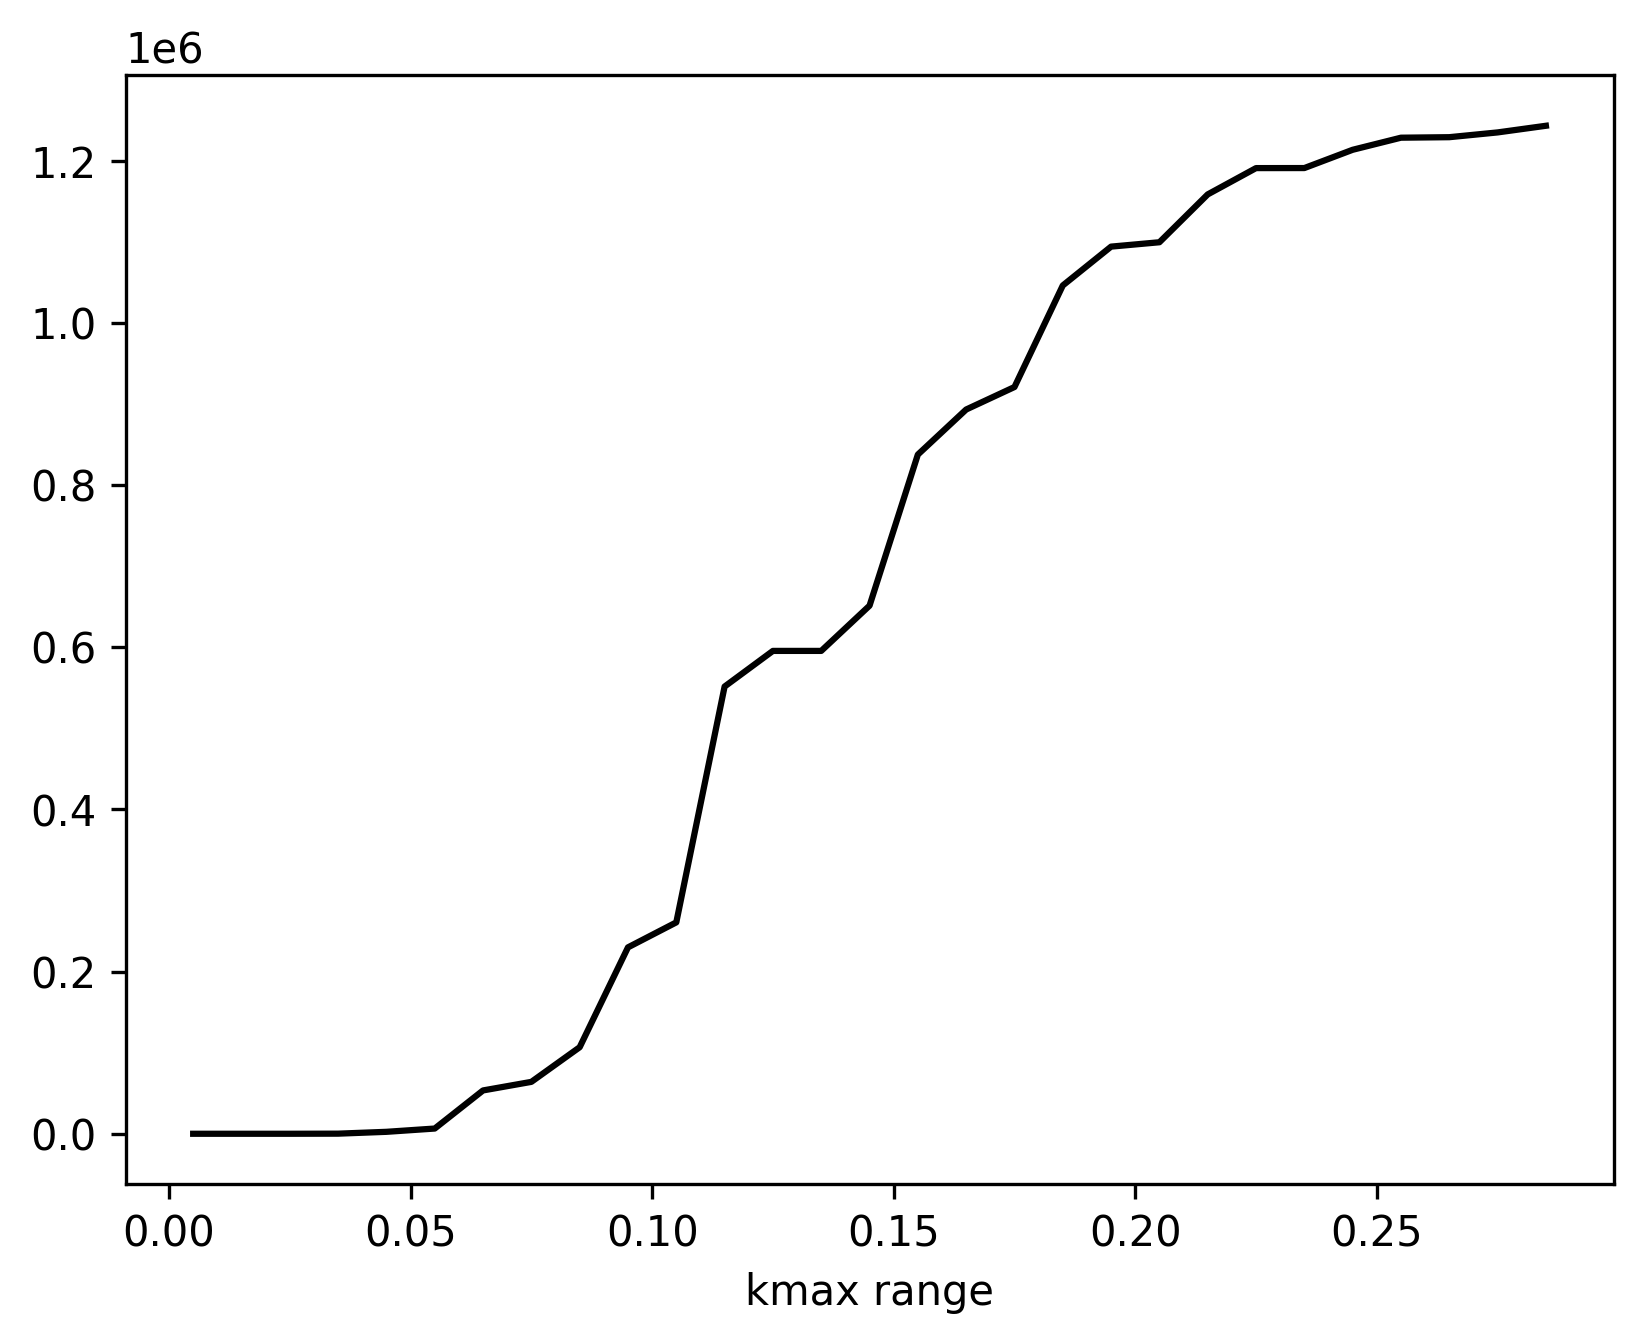
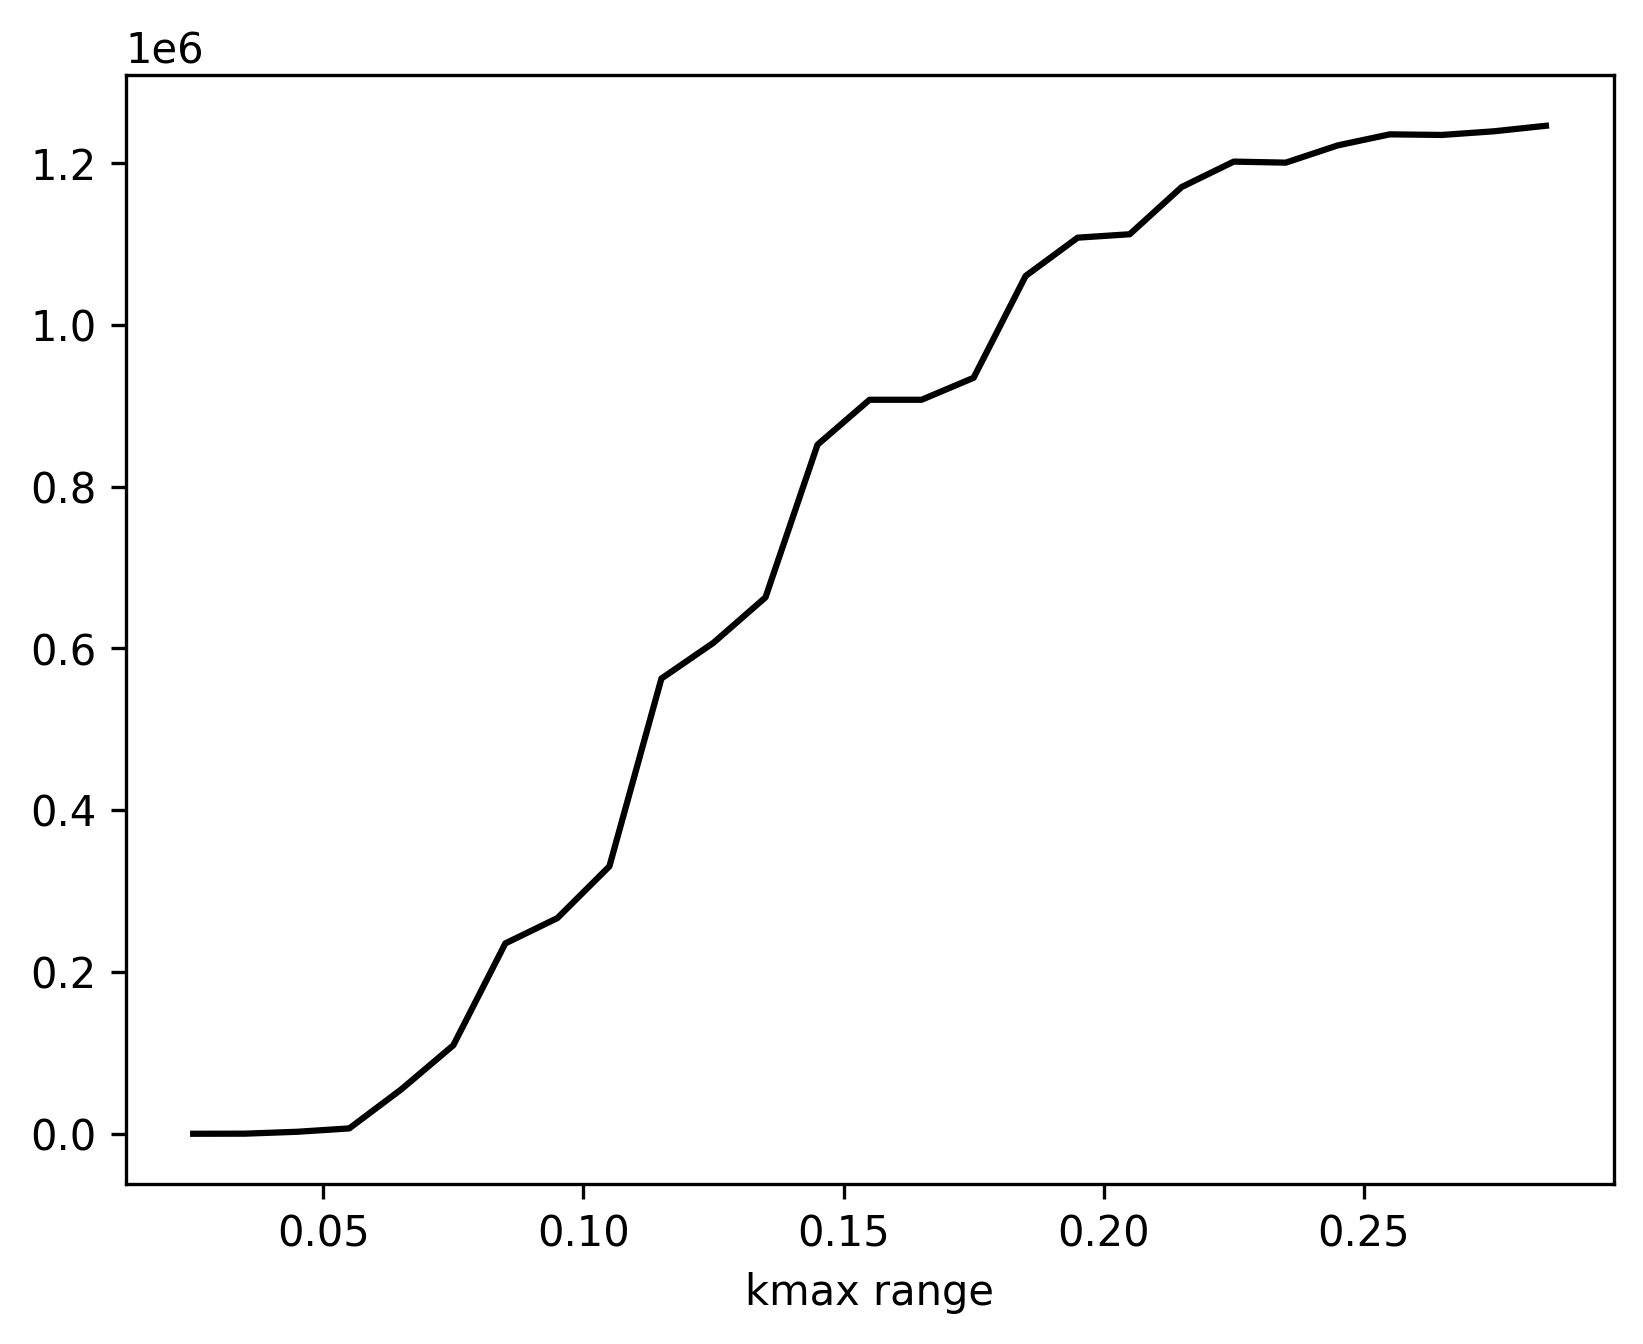
incl hart

diff --git a/pyglam.py b/pyglam.py
@@ -450,21 +450,19 @@ def run_dbda():
 	else:
 		br_int = Interpolate1D(k, bkrm)
 
-	kg, bg, icov, _, cov = select_k(k, kmin, kmax, bkrm, br, True)
 	alpha = 1.0001
-	dbda = (br_int(alpha*kg)-bg)/(alpha-1.0)
-	y_ = dbda**2./np.diag(cov)
-
-	kmax_range =np.arange(0.005, 0.295, 0.010)
+	kmax_range =np.arange(0.025, 0.295, 0.010)
 	y = []
 	for kmax_ in kmax_range:
-		if is_bk:
-			y.append( (y_[kg[:, 2] < kmax_]).sum() )
-		else:
-			y.append( (y_[kg < kmax_]).sum() )
+		kg, bg, icov, _, cov = select_k(k, kmin, kmax_, bkrm, br, True)			
+		dbda = (br_int(alpha*kg)-bg)/(alpha-1.0)
+		y_ = dbda**2./np.diag(cov)		
+		y.append( (y_).sum() )
 
 	y = np.array(y)
-	y[y<0] = 0.0
+	is_neg = y < 0.0
+	y[is_neg] = 0.0
+	print(is_neg.mean())
 
 	plt.figure()
 	plt.plot(kmax_range, y, 'k-')
